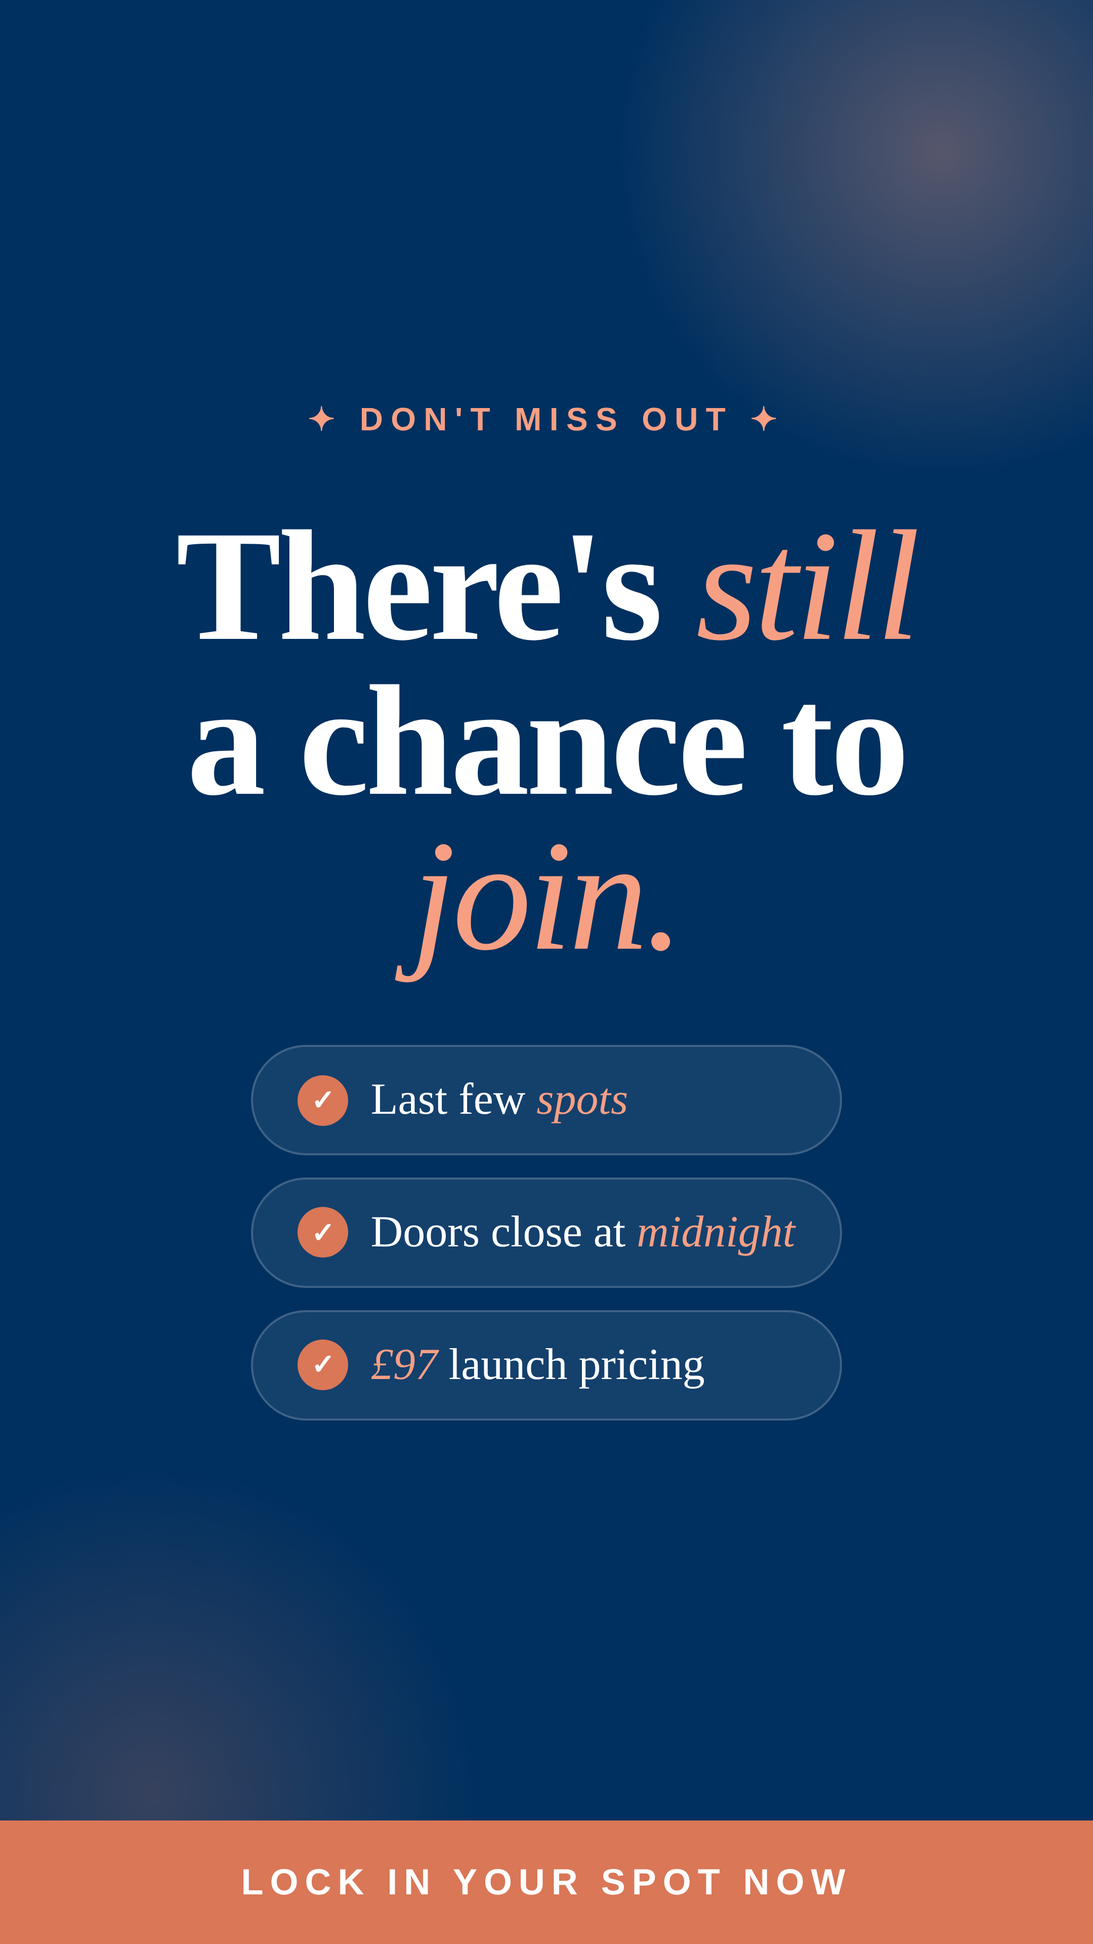
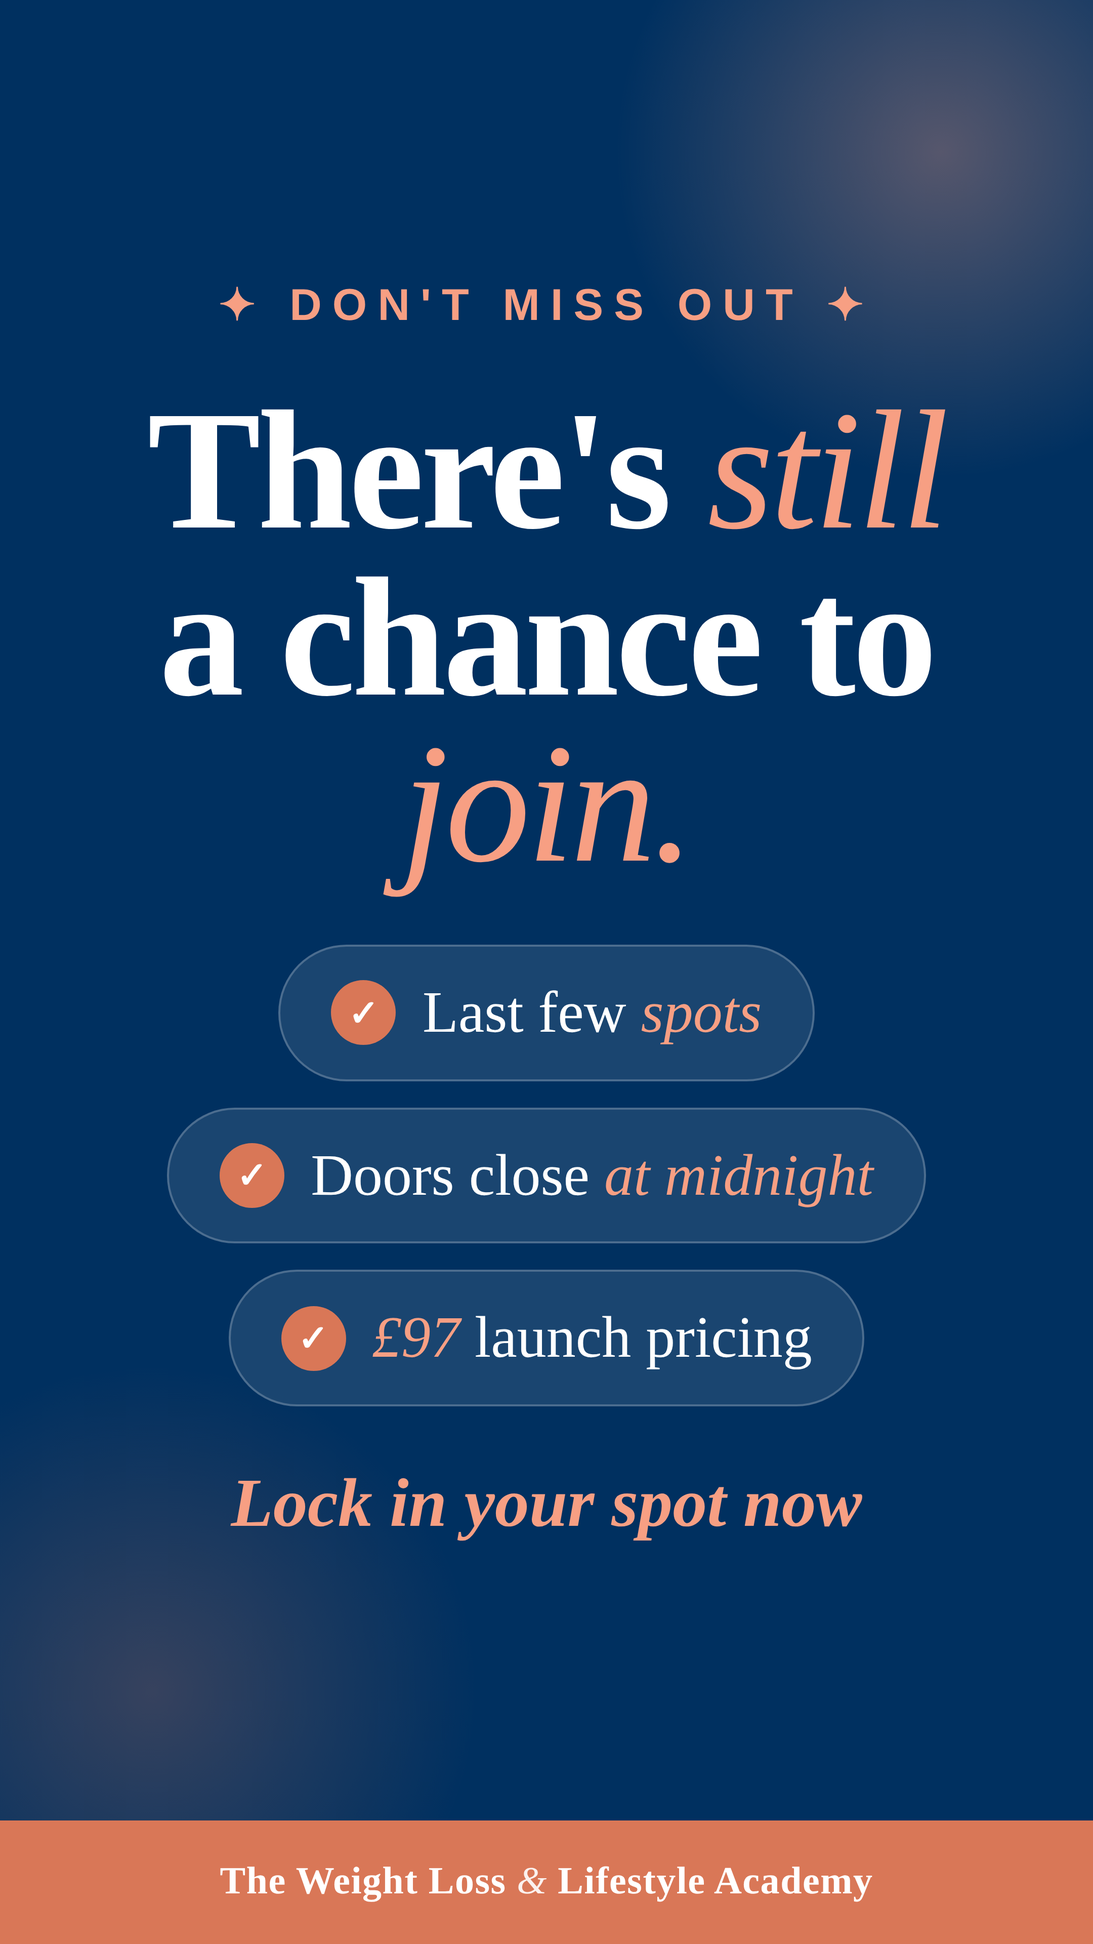
summer-challenge-stories: rework all 4 IG stories for readability
- Removed top salmon urgency banners; the urgency lines now sit in the body as eyebrow + open paragraph
- All text bumped up significantly (story 1 'Tomorrow.' 260->280, sub 64->78, qline 44->60; story 2 'Less than' 96->110, big 50 320->400, 'spots left' 96->110; story 3 hero 156->168, checkpills 44->58; story 4 'Tap to join us.' 168->220, sub 50->64)
- Story 2: removed scarcity meter entirely - just the words
- All 4 stories now end with a navy/coral brand bar 'The Weight Loss & Lifestyle Academy' (was 'Have you saved your spot?' etc.); the old footer copy moved into the body
- Re-rendered PNG + JPG at 2160x3840

diff --git a/summer-challenge-stories/02-spots-left.html b/summer-challenge-stories/02-spots-left.html
@@ -16,39 +16,31 @@
   .ad::after { content: ''; position: absolute; inset: 0; background-image: radial-gradient(rgba(140,110,70,0.045) 1px, transparent 1px); background-size: 7px 7px; pointer-events: none; z-index: 0; }
   .ad > * { position: relative; z-index: 1; }
 
-  .urgency { background: var(--coral-salmon); color: var(--navy-deep); padding: 36px 60px 36px; text-align: center; position: relative; overflow: hidden; box-shadow: inset 0 -2px 0 rgba(14,39,70,0.10); }
-  .urgency::before { content: ''; position: absolute; top: 0; left: -40%; width: 40%; height: 100%; background: linear-gradient(110deg, transparent 0%, rgba(255,255,255,0.5) 50%, transparent 100%); transform: skewX(-18deg); }
-  .urgency .lab { font-family: "Alegreya Sans", sans-serif; font-weight: 800; letter-spacing: 0.22em; text-transform: uppercase; font-size: 26px; color: rgba(0,48,96,0.85); display: block; margin-bottom: 8px; }
-  .urgency .lead { font-family: 'Libre Baskerville', serif; font-style: italic; font-weight: 700; color: var(--navy-deep); font-size: 56px; line-height: 1.05; }
+  .body { flex: 1; display: flex; flex-direction: column; justify-content: center; align-items: center; padding: 80px 70px; text-align: center; gap: 60px; }
+  .eyebrow { font-family: "Alegreya Sans", sans-serif; font-weight: 800; letter-spacing: 0.22em; text-transform: uppercase; font-size: 50px; color: var(--coral); }
+  .lt { font-family: 'Libre Baskerville', serif; font-weight: 700; color: var(--navy-deep); font-size: 110px; line-height: 1.0; letter-spacing: -0.02em; margin: 0; }
+  .big-num { font-family: 'Libre Baskerville', serif; color: var(--coral); font-style: italic; font-weight: 500; font-size: 400px; line-height: 0.85; margin: 0; letter-spacing: -0.04em; }
+  .spots { font-family: 'Libre Baskerville', serif; font-weight: 700; color: var(--navy-deep); font-size: 110px; line-height: 1.0; margin: 0; }
+  .close { font-family: 'Libre Baskerville', serif; font-style: italic; font-weight: 700; color: var(--navy-deep); font-size: 70px; line-height: 1.15; margin: 0; }
+  .close em { color: var(--coral); font-style: italic; font-weight: 700; }
+  .gone { font-family: 'Libre Baskerville', serif; font-size: 60px; line-height: 1.2; color: var(--navy-deep); font-weight: 500; margin: 0; font-style: italic; }
+  .gone em { color: var(--coral); font-style: italic; font-weight: 700; }
 
-  .body { flex: 1; display: flex; flex-direction: column; justify-content: center; align-items: center; padding: 60px; text-align: center; gap: 64px; }
-  .eyebrow { font-family: "Alegreya Sans", sans-serif; font-weight: 800; letter-spacing: 0.22em; text-transform: uppercase; font-size: 32px; color: var(--coral); }
-  .hero { font-family: 'Libre Baskerville', serif; font-weight: 700; color: var(--navy-deep); font-size: 96px; line-height: 1.0; letter-spacing: -0.02em; margin: 0; }
-  .hero em { color: var(--coral); font-style: italic; font-weight: 500; font-size: 320px; display: block; line-height: 0.9; }
-  .meter { width: 100%; max-width: 760px; }
-  .meter-top { display: flex; align-items: baseline; justify-content: space-between; margin-bottom: 20px; }
-  .meter-top .lab { font-family: "Alegreya Sans", sans-serif; font-weight: 800; letter-spacing: 0.18em; text-transform: uppercase; font-size: 24px; color: var(--navy-deep); }
-  .meter-top .cnt { font-family: 'Libre Baskerville', serif; font-weight: 700; font-size: 44px; color: var(--navy-deep); }
-  .meter-top .cnt em { color: var(--coral); font-style: italic; font-weight: 500; }
-  .bar { height: 28px; background: var(--cream-2); border-radius: 999px; overflow: hidden; position: relative; }
-  .fill { height: 100%; width: 90.6%; background: linear-gradient(90deg, var(--coral), var(--coral-soft)); border-radius: 999px; position: relative; }
-  .fill::after { content: ''; position: absolute; right: 0; top: -6px; bottom: -6px; width: 12px; background: var(--coral); border-radius: 999px; box-shadow: 0 0 0 8px rgba(217,119,87,0.25); }
-  .footer-block { background: var(--navy-deep); color: #fff; text-align: center; padding: 40px 30px; font-family: 'Libre Baskerville', serif; font-weight: 700; font-size: 44px; line-height: 1.2; }
-  .footer-block em { color: var(--coral-salmon); font-style: italic; font-weight: 500; }
+  .brand-bar { background: var(--navy-deep); color: #fff; text-align: center; padding: 38px 30px; font-family: 'Libre Baskerville', serif; font-weight: 700; font-size: 38px; letter-spacing: 0.02em; line-height: 1.2; }
+  .brand-bar em { color: var(--coral-salmon); font-style: italic; font-weight: 500; }
 </style>
 </head>
 <body>
 <div class="ad">
-  <div class="urgency"><span class="lab">🚨 Filling Fast 🚨</span><div class="lead">Doors close at midnight</div></div>
   <div class="body">
-    <div class="eyebrow">There are now</div>
-    <h1 class="hero">Less than<em>50</em>spots left</h1>
-    <div class="meter">
-      <div class="meter-top"><span class="lab">Places Taken</span><span class="cnt"><em>453</em> / 500</span></div>
-      <div class="bar"><div class="fill"></div></div>
-    </div>
+    <div class="eyebrow">🚨 Filling Fast 🚨</div>
+    <p class="lt">Less than</p>
+    <p class="big-num">50</p>
+    <p class="spots">spots left</p>
+    <p class="close">Doors close <em>at midnight</em></p>
+    <p class="gone">Once they're gone, <em>they're gone.</em></p>
   </div>
-  <div class="footer-block">Once they're gone, <em>they're gone.</em></div>
+  <div class="brand-bar">The Weight Loss <em>&amp;</em> Lifestyle Academy</div>
 </div>
 </body>
 </html>

diff --git a/summer-challenge-stories/04-tap-to-join.html b/summer-challenge-stories/04-tap-to-join.html
@@ -16,25 +16,25 @@
   .ad::after { content: ''; position: absolute; inset: 0; background-image: radial-gradient(rgba(140,110,70,0.045) 1px, transparent 1px); background-size: 7px 7px; pointer-events: none; z-index: 0; }
   .ad > * { position: relative; z-index: 1; }
 
-  .body { flex: 1; display: flex; flex-direction: column; padding: 90px 70px 60px; text-align: center; }
-  .eyebrow { font-family: "Alegreya Sans", sans-serif; font-weight: 800; letter-spacing: 0.22em; text-transform: uppercase; font-size: 30px; color: var(--coral); margin-bottom: 24px; }
-  .hero { font-family: 'Libre Baskerville', serif; font-weight: 700; color: var(--navy-deep); font-size: 168px; line-height: 0.95; letter-spacing: -0.02em; margin: 0 0 24px; }
+  .body { flex: 1; display: flex; flex-direction: column; padding: 90px 70px 40px; text-align: center; }
+  .eyebrow { font-family: "Alegreya Sans", sans-serif; font-weight: 800; letter-spacing: 0.22em; text-transform: uppercase; font-size: 44px; color: var(--coral); margin-bottom: 38px; }
+  .hero { font-family: 'Libre Baskerville', serif; font-weight: 700; color: var(--navy-deep); font-size: 220px; line-height: 0.95; letter-spacing: -0.025em; margin: 0 0 38px; }
   .hero em { color: var(--coral); font-style: italic; font-weight: 500; }
-  .sub { font-family: 'Libre Baskerville', serif; font-style: italic; color: var(--navy-deep); font-size: 50px; line-height: 1.3; margin: 0; }
-  .sub strong { font-style: normal; color: var(--coral); font-weight: 700; }
-  .center-spacer { flex: 1; min-height: 60px; }
+  .sub-strong { font-family: 'Libre Baskerville', serif; font-style: italic; font-weight: 700; color: var(--coral); font-size: 64px; line-height: 1.2; margin: 0 0 8px; }
+  .sub { font-family: 'Libre Baskerville', serif; font-style: italic; color: var(--navy-deep); font-size: 56px; line-height: 1.25; margin: 0; }
 
-  /* Big arrow pointing down to where the link sticker goes */
-  .arrow-row { display: flex; flex-direction: column; align-items: center; gap: 28px; margin-top: auto; }
+  .arrow-row { display: flex; flex-direction: column; align-items: center; gap: 22px; margin-top: auto; padding-top: 60px; }
+  .tap-label { font-family: "Alegreya Sans", sans-serif; font-weight: 800; letter-spacing: 0.22em; text-transform: uppercase; font-size: 44px; color: var(--navy-deep); }
   .arrow { color: var(--coral); animation: bounce 1.8s ease-in-out infinite; }
-  .arrow svg { width: 180px; height: 240px; stroke: var(--coral); fill: none; stroke-width: 12; stroke-linecap: round; stroke-linejoin: round; }
+  .arrow svg { width: 220px; height: 280px; stroke: var(--coral); fill: none; stroke-width: 14; stroke-linecap: round; stroke-linejoin: round; }
   @keyframes bounce { 0%, 100% { transform: translateY(0); } 50% { transform: translateY(20px); } }
-  .tap-label { font-family: "Alegreya Sans", sans-serif; font-weight: 800; letter-spacing: 0.22em; text-transform: uppercase; font-size: 32px; color: var(--navy-deep); }
 
-  /* Reserved area for IG link sticker — empty space at the bottom */
-  .sticker-zone { background: rgba(0,48,96,0.06); border: 3px dashed rgba(0,48,96,0.20); border-radius: 28px; height: 280px; display: flex; align-items: center; justify-content: center; flex-direction: column; gap: 18px; margin-top: 30px; }
-  .sticker-zone .ig-pill { padding: 20px 40px; background: var(--navy-deep); color: #fff; border-radius: 999px; font-family: "Alegreya Sans", sans-serif; font-weight: 800; font-size: 38px; letter-spacing: 0.06em; display: inline-flex; align-items: center; gap: 14px; }
-  .sticker-zone .note { font-family: 'Libre Baskerville', serif; font-style: italic; font-size: 26px; color: var(--navy-deep); opacity: 0.55; }
+  .sticker-zone { background: rgba(0,48,96,0.06); border: 3px dashed rgba(0,48,96,0.22); border-radius: 28px; padding: 38px 30px; display: flex; flex-direction: column; align-items: center; gap: 14px; margin-top: 26px; }
+  .sticker-zone .note { font-family: 'Libre Baskerville', serif; font-style: italic; font-size: 32px; color: var(--navy-deep); opacity: 0.55; }
+  .sticker-zone .ig-pill { padding: 22px 44px; background: var(--navy-deep); color: #fff; border-radius: 999px; font-family: "Alegreya Sans", sans-serif; font-weight: 800; font-size: 42px; letter-spacing: 0.04em; display: inline-flex; align-items: center; gap: 14px; }
+
+  .brand-bar { background: var(--navy-deep); color: #fff; text-align: center; padding: 38px 30px; font-family: 'Libre Baskerville', serif; font-weight: 700; font-size: 38px; letter-spacing: 0.02em; line-height: 1.2; }
+  .brand-bar em { color: var(--coral-salmon); font-style: italic; font-weight: 500; }
 </style>
 </head>
 <body>
@@ -42,9 +42,8 @@
   <div class="body">
     <div class="eyebrow">✦ Summer Challenge ✦</div>
     <h1 class="hero">Tap to<br/><em>join us.</em></h1>
-    <p class="sub"><strong>Less than 50 spots left.</strong><br/>Doors close at midnight.</p>
-
-    <div class="center-spacer"></div>
+    <p class="sub-strong">Less than 50 spots left.</p>
+    <p class="sub">Doors close at midnight.</p>
 
     <div class="arrow-row">
       <div class="tap-label">Tap the link below</div>
@@ -55,6 +54,7 @@
       </div>
     </div>
   </div>
+  <div class="brand-bar">The Weight Loss <em>&amp;</em> Lifestyle Academy</div>
 </div>
 </body>
 </html>

diff --git a/summer-challenge-stories/03-still-time.html b/summer-challenge-stories/03-still-time.html
@@ -14,18 +14,21 @@
   .ad { width: 1080px; height: 1920px; background: var(--navy-deep); position: relative; overflow: hidden; box-shadow: 0 30px 80px rgba(0,0,0,0.5); display: flex; flex-direction: column; color: #fff; }
   @media (max-width: 1140px) { body { padding: 12px; } .ad { transform: scale(calc((100vw - 24px) / 1080)); transform-origin: top center; margin-bottom: calc((100vw - 24px) * (-1920 / 1080) + 24px); } }
   .ad::before { content: ''; position: absolute; top: -200px; right: -200px; width: 700px; height: 700px; background: radial-gradient(circle, rgba(247,159,131,0.35), transparent 65%); pointer-events: none; }
-  .ad::after { content: ''; position: absolute; bottom: -200px; left: -200px; width: 700px; height: 700px; background: radial-gradient(circle, rgba(217,119,87,0.25), transparent 65%); pointer-events: none; }
+  .ad::after { content: ''; position: absolute; bottom: -100px; left: -200px; width: 700px; height: 700px; background: radial-gradient(circle, rgba(217,119,87,0.25), transparent 65%); pointer-events: none; }
   .ad > * { position: relative; z-index: 1; }
 
-  .body { flex: 1; display: flex; flex-direction: column; justify-content: center; align-items: center; padding: 90px 70px; text-align: center; gap: 70px; }
-  .eyebrow { font-family: "Alegreya Sans", sans-serif; font-weight: 800; letter-spacing: 0.24em; text-transform: uppercase; font-size: 32px; color: var(--coral-salmon); }
-  .hero { font-family: 'Libre Baskerville', serif; font-weight: 700; color: #fff; font-size: 156px; line-height: 0.98; letter-spacing: -0.02em; margin: 0; }
+  .body { flex: 1; display: flex; flex-direction: column; justify-content: center; align-items: center; padding: 90px 70px; text-align: center; gap: 56px; }
+  .eyebrow { font-family: "Alegreya Sans", sans-serif; font-weight: 800; letter-spacing: 0.24em; text-transform: uppercase; font-size: 44px; color: var(--coral-salmon); }
+  .hero { font-family: 'Libre Baskerville', serif; font-weight: 700; color: #fff; font-size: 168px; line-height: 0.98; letter-spacing: -0.02em; margin: 0; }
   .hero em { color: var(--coral-salmon); font-style: italic; font-weight: 500; }
-  .pill-row { display: flex; flex-direction: column; gap: 22px; }
-  .checkpill { display: inline-flex; align-items: center; gap: 22px; padding: 26px 44px; background: rgba(255,255,255,0.08); border: 2px solid rgba(255,255,255,0.18); border-radius: 999px; font-family: 'Libre Baskerville', serif; font-size: 44px; color: #fff; font-weight: 500; line-height: 1.2; }
+  .pill-row { display: flex; flex-direction: column; gap: 26px; width: 100%; align-items: center; }
+  .checkpill { display: inline-flex; align-items: center; gap: 26px; padding: 32px 50px; background: rgba(255,255,255,0.10); border: 2px solid rgba(255,255,255,0.22); border-radius: 999px; font-family: 'Libre Baskerville', serif; font-size: 58px; color: #fff; font-weight: 500; line-height: 1.15; }
   .checkpill em { color: var(--coral-salmon); font-style: italic; font-weight: 500; }
-  .checkpill .tick { width: 50px; height: 50px; border-radius: 50%; background: var(--coral); color: #fff; display: grid; place-items: center; flex: none; font-family: "Alegreya Sans", sans-serif; font-weight: 800; font-size: 28px; }
-  .footer-block { background: var(--coral); color: #fff; text-align: center; padding: 40px 30px; font-family: "Alegreya Sans", sans-serif; font-weight: 800; font-size: 36px; letter-spacing: 0.18em; text-transform: uppercase; }
+  .checkpill .tick { width: 64px; height: 64px; border-radius: 50%; background: var(--coral); color: #fff; display: grid; place-items: center; flex: none; font-family: "Alegreya Sans", sans-serif; font-weight: 800; font-size: 36px; }
+  .lock-line { font-family: 'Libre Baskerville', serif; font-style: italic; font-weight: 700; color: var(--coral-salmon); font-size: 68px; line-height: 1.15; margin: 0; }
+
+  .brand-bar { background: var(--coral); color: #fff; text-align: center; padding: 38px 30px; font-family: 'Libre Baskerville', serif; font-weight: 700; font-size: 38px; letter-spacing: 0.02em; line-height: 1.2; }
+  .brand-bar em { color: #fff; font-style: italic; font-weight: 500; opacity: 0.9; }
 </style>
 </head>
 <body>
@@ -35,11 +38,12 @@
     <h1 class="hero">There's <em>still</em><br/>a chance to <em>join.</em></h1>
     <div class="pill-row">
       <div class="checkpill"><span class="tick">✓</span><span>Last few <em>spots</em></span></div>
-      <div class="checkpill"><span class="tick">✓</span><span>Doors close at <em>midnight</em></span></div>
+      <div class="checkpill"><span class="tick">✓</span><span>Doors close <em>at midnight</em></span></div>
       <div class="checkpill"><span class="tick">✓</span><span><em>£97</em> launch pricing</span></div>
     </div>
+    <p class="lock-line">Lock in your spot now</p>
   </div>
-  <div class="footer-block">Lock In Your Spot Now</div>
+  <div class="brand-bar">The Weight Loss <em>&amp;</em> Lifestyle Academy</div>
 </div>
 </body>
 </html>

diff --git a/summer-challenge-stories/01-tomorrow.html b/summer-challenge-stories/01-tomorrow.html
@@ -16,31 +16,29 @@
   .ad::after { content: ''; position: absolute; inset: 0; background-image: radial-gradient(rgba(140,110,70,0.045) 1px, transparent 1px); background-size: 7px 7px; pointer-events: none; z-index: 0; }
   .ad > * { position: relative; z-index: 1; }
 
-  .urgency { background: var(--coral-salmon); color: var(--navy-deep); padding: 36px 60px 36px; text-align: center; position: relative; overflow: hidden; box-shadow: inset 0 -2px 0 rgba(14,39,70,0.10); }
-  .urgency::before { content: ''; position: absolute; top: 0; left: -40%; width: 40%; height: 100%; background: linear-gradient(110deg, transparent 0%, rgba(255,255,255,0.5) 50%, transparent 100%); transform: skewX(-18deg); animation: sheen 3.6s ease-in-out infinite; pointer-events: none; }
-  @keyframes sheen { 0% { left: -40%; } 60% { left: 120%; } 100% { left: 120%; } }
-  .urgency .lab { font-family: "Alegreya Sans", sans-serif; font-weight: 800; letter-spacing: 0.22em; text-transform: uppercase; font-size: 26px; color: rgba(0,48,96,0.85); display: block; margin-bottom: 8px; }
-  .urgency .lead { font-family: 'Libre Baskerville', serif; font-style: italic; font-weight: 700; color: var(--navy-deep); font-size: 60px; line-height: 1.05; }
-
-  .body { flex: 1; display: flex; flex-direction: column; justify-content: center; align-items: center; padding: 60px; text-align: center; gap: 60px; }
-  .eyebrow { font-family: "Alegreya Sans", sans-serif; font-weight: 800; letter-spacing: 0.24em; text-transform: uppercase; font-size: 30px; color: var(--coral); }
-  .hero { font-family: 'Libre Baskerville', serif; font-weight: 700; color: var(--navy-deep); font-size: 260px; line-height: 0.92; letter-spacing: -0.03em; margin: 0; font-style: italic; font-weight: 500; }
-  .hero .strong { color: var(--coral); }
-  .sub { font-family: 'Libre Baskerville', serif; font-size: 64px; line-height: 1.1; color: var(--navy-deep); font-weight: 700; margin: 0; }
+  .body { flex: 1; display: flex; flex-direction: column; justify-content: center; align-items: center; padding: 80px 70px; text-align: center; gap: 56px; }
+  .eyebrow { font-family: "Alegreya Sans", sans-serif; font-weight: 800; letter-spacing: 0.24em; text-transform: uppercase; font-size: 44px; color: var(--coral); }
+  .open { font-family: 'Libre Baskerville', serif; font-style: italic; font-weight: 700; color: var(--navy-deep); font-size: 76px; line-height: 1.1; margin: 0; }
+  .hero { font-family: 'Libre Baskerville', serif; font-weight: 700; color: var(--coral); font-size: 280px; line-height: 0.95; letter-spacing: -0.03em; margin: 0; font-style: italic; font-weight: 500; }
+  .sub { font-family: 'Libre Baskerville', serif; font-size: 78px; line-height: 1.1; color: var(--navy-deep); font-weight: 700; margin: 0; }
   .sub em { color: var(--coral); font-style: italic; font-weight: 500; }
-  .footer-block { background: var(--navy-deep); color: #fff; text-align: center; padding: 40px 30px; font-family: 'Libre Baskerville', serif; font-weight: 700; font-size: 48px; line-height: 1.15; }
-  .footer-block em { color: var(--coral-salmon); font-style: italic; font-weight: 500; }
+  .qline { font-family: 'Libre Baskerville', serif; font-size: 60px; line-height: 1.2; color: var(--navy-deep); font-weight: 500; margin: 0; }
+  .qline em { color: var(--coral); font-style: italic; font-weight: 700; }
+
+  .brand-bar { background: var(--navy-deep); color: #fff; text-align: center; padding: 38px 30px; font-family: 'Libre Baskerville', serif; font-weight: 700; font-size: 38px; letter-spacing: 0.02em; line-height: 1.2; }
+  .brand-bar em { color: var(--coral-salmon); font-style: italic; font-weight: 500; }
 </style>
 </head>
 <body>
 <div class="ad">
-  <div class="urgency"><span class="lab">⚡ The Wait Is Over ⚡</span><div class="lead">Doors open Monday 8th June</div></div>
   <div class="body">
-    <div class="eyebrow">It Starts</div>
-    <h1 class="hero"><span class="strong">Tomorrow.</span></h1>
+    <div class="eyebrow">✦ The Wait Is Over ✦</div>
+    <p class="open">Doors open Monday 8th June</p>
+    <h1 class="hero">Tomorrow.</h1>
     <p class="sub">The <em>WLA 12 Week</em><br/>Summer Challenge</p>
+    <p class="qline">Have you saved your <em>spot?</em></p>
   </div>
-  <div class="footer-block">Have you saved your <em>spot?</em></div>
+  <div class="brand-bar">The Weight Loss <em>&amp;</em> Lifestyle Academy</div>
 </div>
 </body>
 </html>
